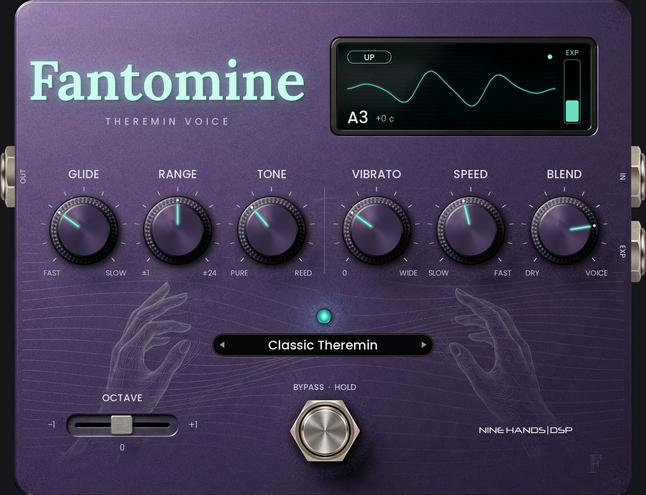
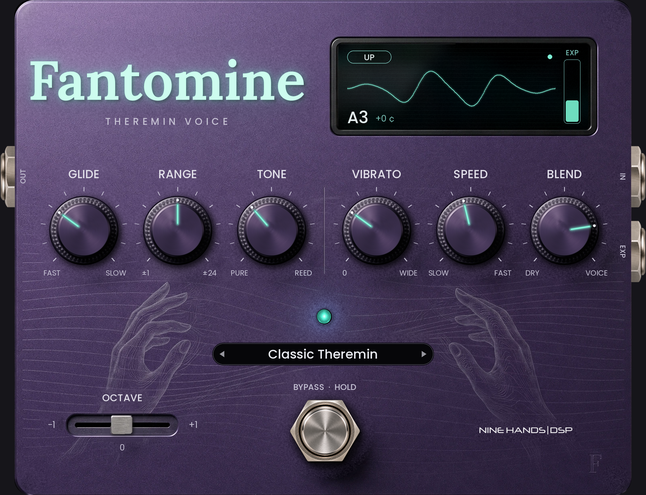
Fantomine v2 (aperçu) : barre presets / état centrée entre la LED et BYPASS · HOLD
Claude-Session: https://claude.ai/code/session_01Qo2sEWGsgftyJg4vomCTMy

Changed region(s): [[0.3096, 0.6667, 0.6811, 0.7576]]

diff --git a/tools/make_art.py b/tools/make_art.py
@@ -241,6 +241,17 @@ def make():
 
     # ------------------------------------------------------------------ repères
     sc = lambda r: [round(r[0], 2), round(r[1], 2)]
+    # barre presets / état (400 x 38, référence Strong Pickle) centrée verticalement entre le bas de la LED
+    # (joint compris) et le haut des lettres de « BYPASS · HOLD » (Poppins Medium 15, mesuré sur la police)
+    from PIL import ImageFont
+    by = fs_u[1] - flats / math.sqrt(3) - 15.0
+    f15 = ImageFont.truetype(os.path.join(ROOT, 'Poppins-Medium.ttf'), 1500)
+    bb = f15.getbbox('BYPASS · HOLD', anchor='mm')          # en 1/100 d'unité
+    label_top = by + bb[1] / 100.0
+    led_bottom = led_u[1] + led_r * 1.07
+    pill_cy = (led_bottom + label_top) / 2
+    pill_box = [round(UW / 2 - 200, 2), round(pill_cy - 19, 2), 400.0, 38.0]
+    print('LED bas', round(led_bottom, 2), '| haut des lettres', round(label_top, 2), '| centre barre', round(pill_cy, 2))
     s_box = lambda b: [round(U(b[0], b[1])[0], 2), round(U(b[0], b[1])[1], 2),
                        round((b[2] - b[0]) * SX, 2), round((b[3] - b[1]) * SY, 2)]
     lay = dict(
@@ -252,7 +263,7 @@ def make():
         screen=s_box(SCREEN_IN_D), led=sc(led_u), ledS=round(ledS, 2), ledR=led_r,
         foot=sc(fs_u), footR=round(fsBtn, 2), fsS=round(fsS, 2), flats=flats,
         title=sc(U(445, 207)), titleH=round(118 * SY, 2), subtitle=sc(U(445, 313)),
-        pill=[round(UW / 2 - 200, 2), round(U(0, 875)[1] - 19, 2), 400.0, 38.0],
+        pill=pill_box,
         octave=dict(label=sc(U(335, 1008)), m1=sc(U(158, 1076)), p1=sc(U(512, 1076)), zero=sc(U(334, 1133)),
                     handle=sc(U((OCT_HANDLE_D[0] + OCT_HANDLE_D[2]) / 2, (OCT_HANDLE_D[1] + OCT_HANDLE_D[3]) / 2)),
                     handleBox=[round(v, 3) for v in handle_box_u],
